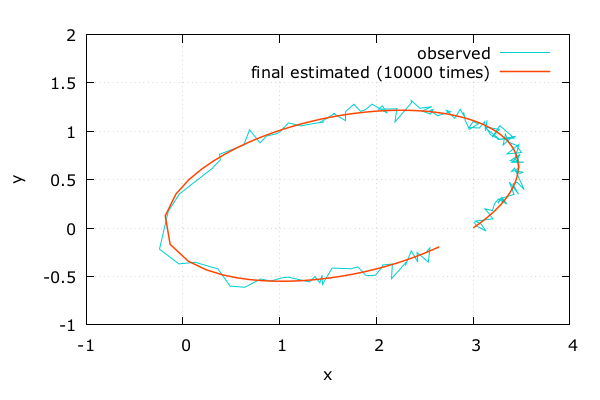
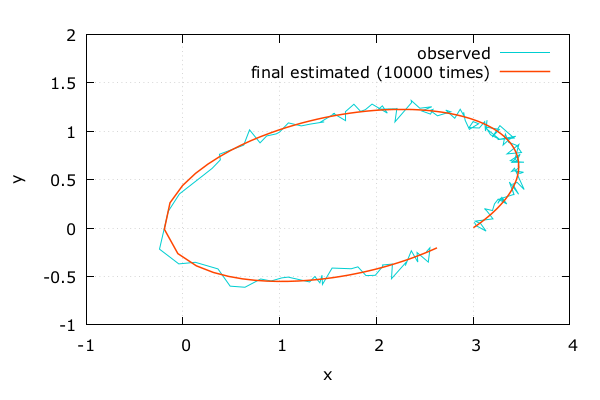
fix model code

diff --git a/docs/adintro/index.html b/docs/adintro/index.html
@@ -869,9 +869,9 @@ std::vector&lt; T &gt; simulate( <span class="dt">const</span> std::vector&lt; T
     dxdt[ <span class="dv">0</span> ] = x[ <span class="dv">2</span> ]; <span class="co">// u`</span>
     dxdt[ <span class="dv">1</span> ] = x[ <span class="dv">3</span> ]; <span class="co">// v`</span>
     T r2 = x[ <span class="dv">0</span> ] * x[ <span class="dv">0</span> ] + x[ <span class="dv">1</span> ] * x[ <span class="dv">1</span> ];
-    T r3 = pow( r2, <span class="fl">3.</span><span class="dv">0</span> / <span class="fl">2.</span><span class="dv">0</span> ) * m;
-    dxdt[ <span class="dv">2</span> ] = -x[ <span class="dv">0</span> ] / r3; <span class="co">// x`</span>
-    dxdt[ <span class="dv">3</span> ] = -x[ <span class="dv">1</span> ] / r3; <span class="co">// y`</span>
+    T r3 = pow( r2, <span class="fl">3.</span><span class="dv">0</span> / <span class="fl">2.</span><span class="dv">0</span> );
+    dxdt[ <span class="dv">2</span> ] = -m * x[ <span class="dv">0</span> ] / r3; <span class="co">// x`</span>
+    dxdt[ <span class="dv">3</span> ] = -m * x[ <span class="dv">1</span> ] / r3; <span class="co">// y`</span>
   };
   ...</code></pre>
 </section>
@@ -953,7 +953,7 @@ std::vector&lt; T &gt; simulate( <span class="dt">const</span> std::vector&lt; T
   std::vector&lt; <span class="dt">double</span> &gt; init {
     <span class="co">/*x =*/</span> observed[<span class="dv">0</span>], <span class="co">/*y =*/</span> observed[<span class="dv">1</span>],
     <span class="co">/*u =*/</span> <span class="fl">0.</span><span class="dv">4</span>, <span class="co">/*v =*/</span> <span class="fl">0.</span><span class="dv">3</span>,
-    <span class="co">/*m =*/</span> <span class="fl">0.</span><span class="dv">8</span>
+    <span class="co">/*m =*/</span> <span class="fl">1.</span><span class="dv">3</span>
   };
   ...</code></pre>
 </section>

diff --git a/docs/adintro/local.html b/docs/adintro/local.html
@@ -869,9 +869,9 @@ std::vector&lt; T &gt; simulate( <span class="dt">const</span> std::vector&lt; T
     dxdt[ <span class="dv">0</span> ] = x[ <span class="dv">2</span> ]; <span class="co">// u`</span>
     dxdt[ <span class="dv">1</span> ] = x[ <span class="dv">3</span> ]; <span class="co">// v`</span>
     T r2 = x[ <span class="dv">0</span> ] * x[ <span class="dv">0</span> ] + x[ <span class="dv">1</span> ] * x[ <span class="dv">1</span> ];
-    T r3 = pow( r2, <span class="fl">3.</span><span class="dv">0</span> / <span class="fl">2.</span><span class="dv">0</span> ) * m;
-    dxdt[ <span class="dv">2</span> ] = -x[ <span class="dv">0</span> ] / r3; <span class="co">// x`</span>
-    dxdt[ <span class="dv">3</span> ] = -x[ <span class="dv">1</span> ] / r3; <span class="co">// y`</span>
+    T r3 = pow( r2, <span class="fl">3.</span><span class="dv">0</span> / <span class="fl">2.</span><span class="dv">0</span> );
+    dxdt[ <span class="dv">2</span> ] = -m * x[ <span class="dv">0</span> ] / r3; <span class="co">// x`</span>
+    dxdt[ <span class="dv">3</span> ] = -m * x[ <span class="dv">1</span> ] / r3; <span class="co">// y`</span>
   };
   ...</code></pre>
 </section>
@@ -953,7 +953,7 @@ std::vector&lt; T &gt; simulate( <span class="dt">const</span> std::vector&lt; T
   std::vector&lt; <span class="dt">double</span> &gt; init {
     <span class="co">/*x =*/</span> observed[<span class="dv">0</span>], <span class="co">/*y =*/</span> observed[<span class="dv">1</span>],
     <span class="co">/*u =*/</span> <span class="fl">0.</span><span class="dv">4</span>, <span class="co">/*v =*/</span> <span class="fl">0.</span><span class="dv">3</span>,
-    <span class="co">/*m =*/</span> <span class="fl">0.</span><span class="dv">8</span>
+    <span class="co">/*m =*/</span> <span class="fl">1.</span><span class="dv">3</span>
   };
   ...</code></pre>
 </section>

diff --git a/docs/adintro/index.md b/docs/adintro/index.md
@@ -784,9 +784,9 @@ std::vector< T > simulate( const std::vector< T > &init ) {
     dxdt[ 0 ] = x[ 2 ]; // u`
     dxdt[ 1 ] = x[ 3 ]; // v`
     T r2 = x[ 0 ] * x[ 0 ] + x[ 1 ] * x[ 1 ];
-    T r3 = pow( r2, 3.0 / 2.0 ) * m;
-    dxdt[ 2 ] = -x[ 0 ] / r3; // x`
-    dxdt[ 3 ] = -x[ 1 ] / r3; // y`
+    T r3 = pow( r2, 3.0 / 2.0 );
+    dxdt[ 2 ] = -m * x[ 0 ] / r3; // x`
+    dxdt[ 3 ] = -m * x[ 1 ] / r3; // y`
   };
   ...
 ```
@@ -874,7 +874,7 @@ int main() {
   std::vector< double > init {
     /*x =*/ observed[0], /*y =*/ observed[1],
     /*u =*/ 0.4, /*v =*/ 0.3,
-    /*m =*/ 0.8
+    /*m =*/ 1.3
   };
   ...
 ```
